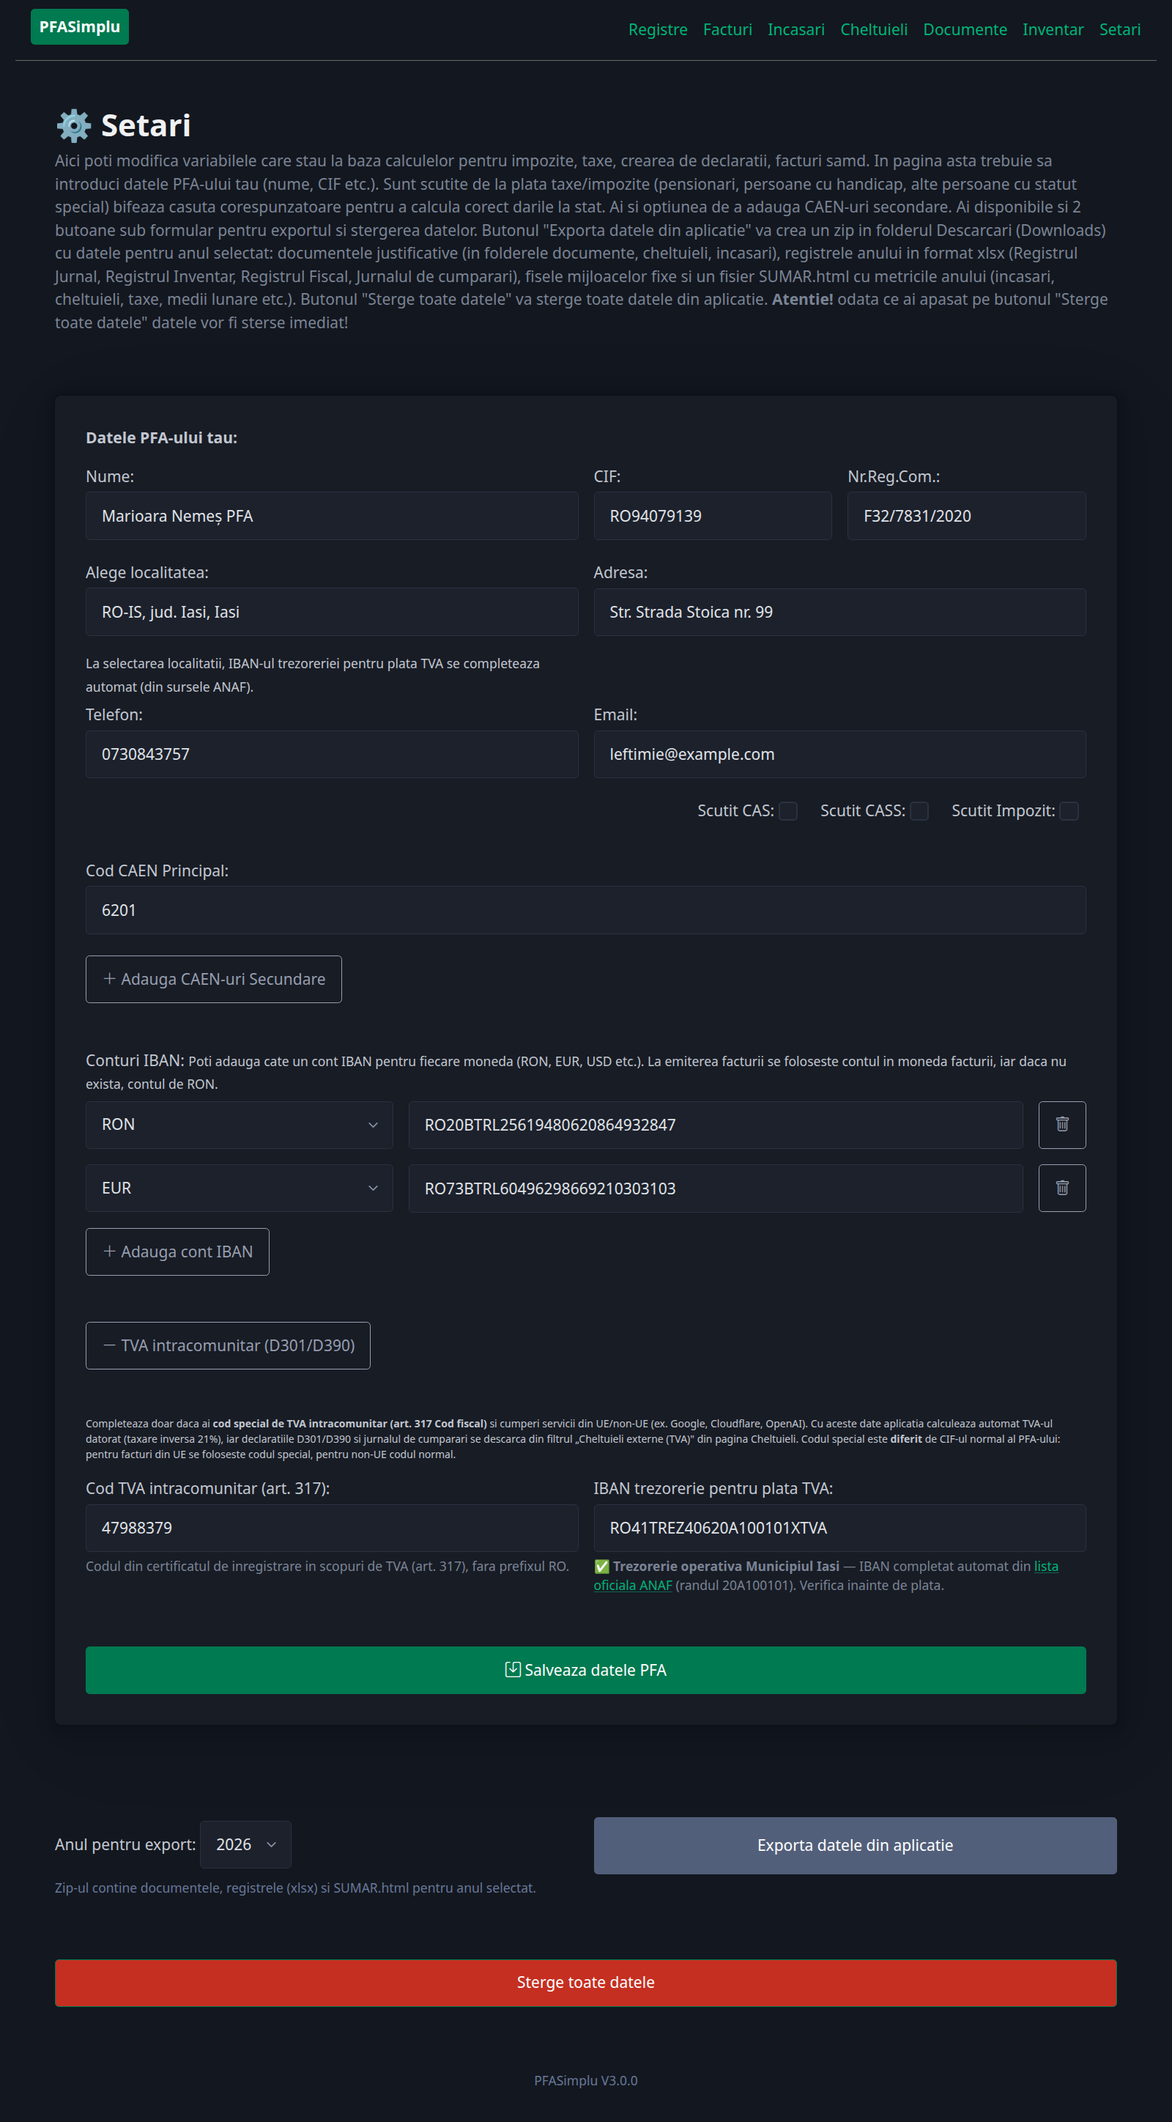
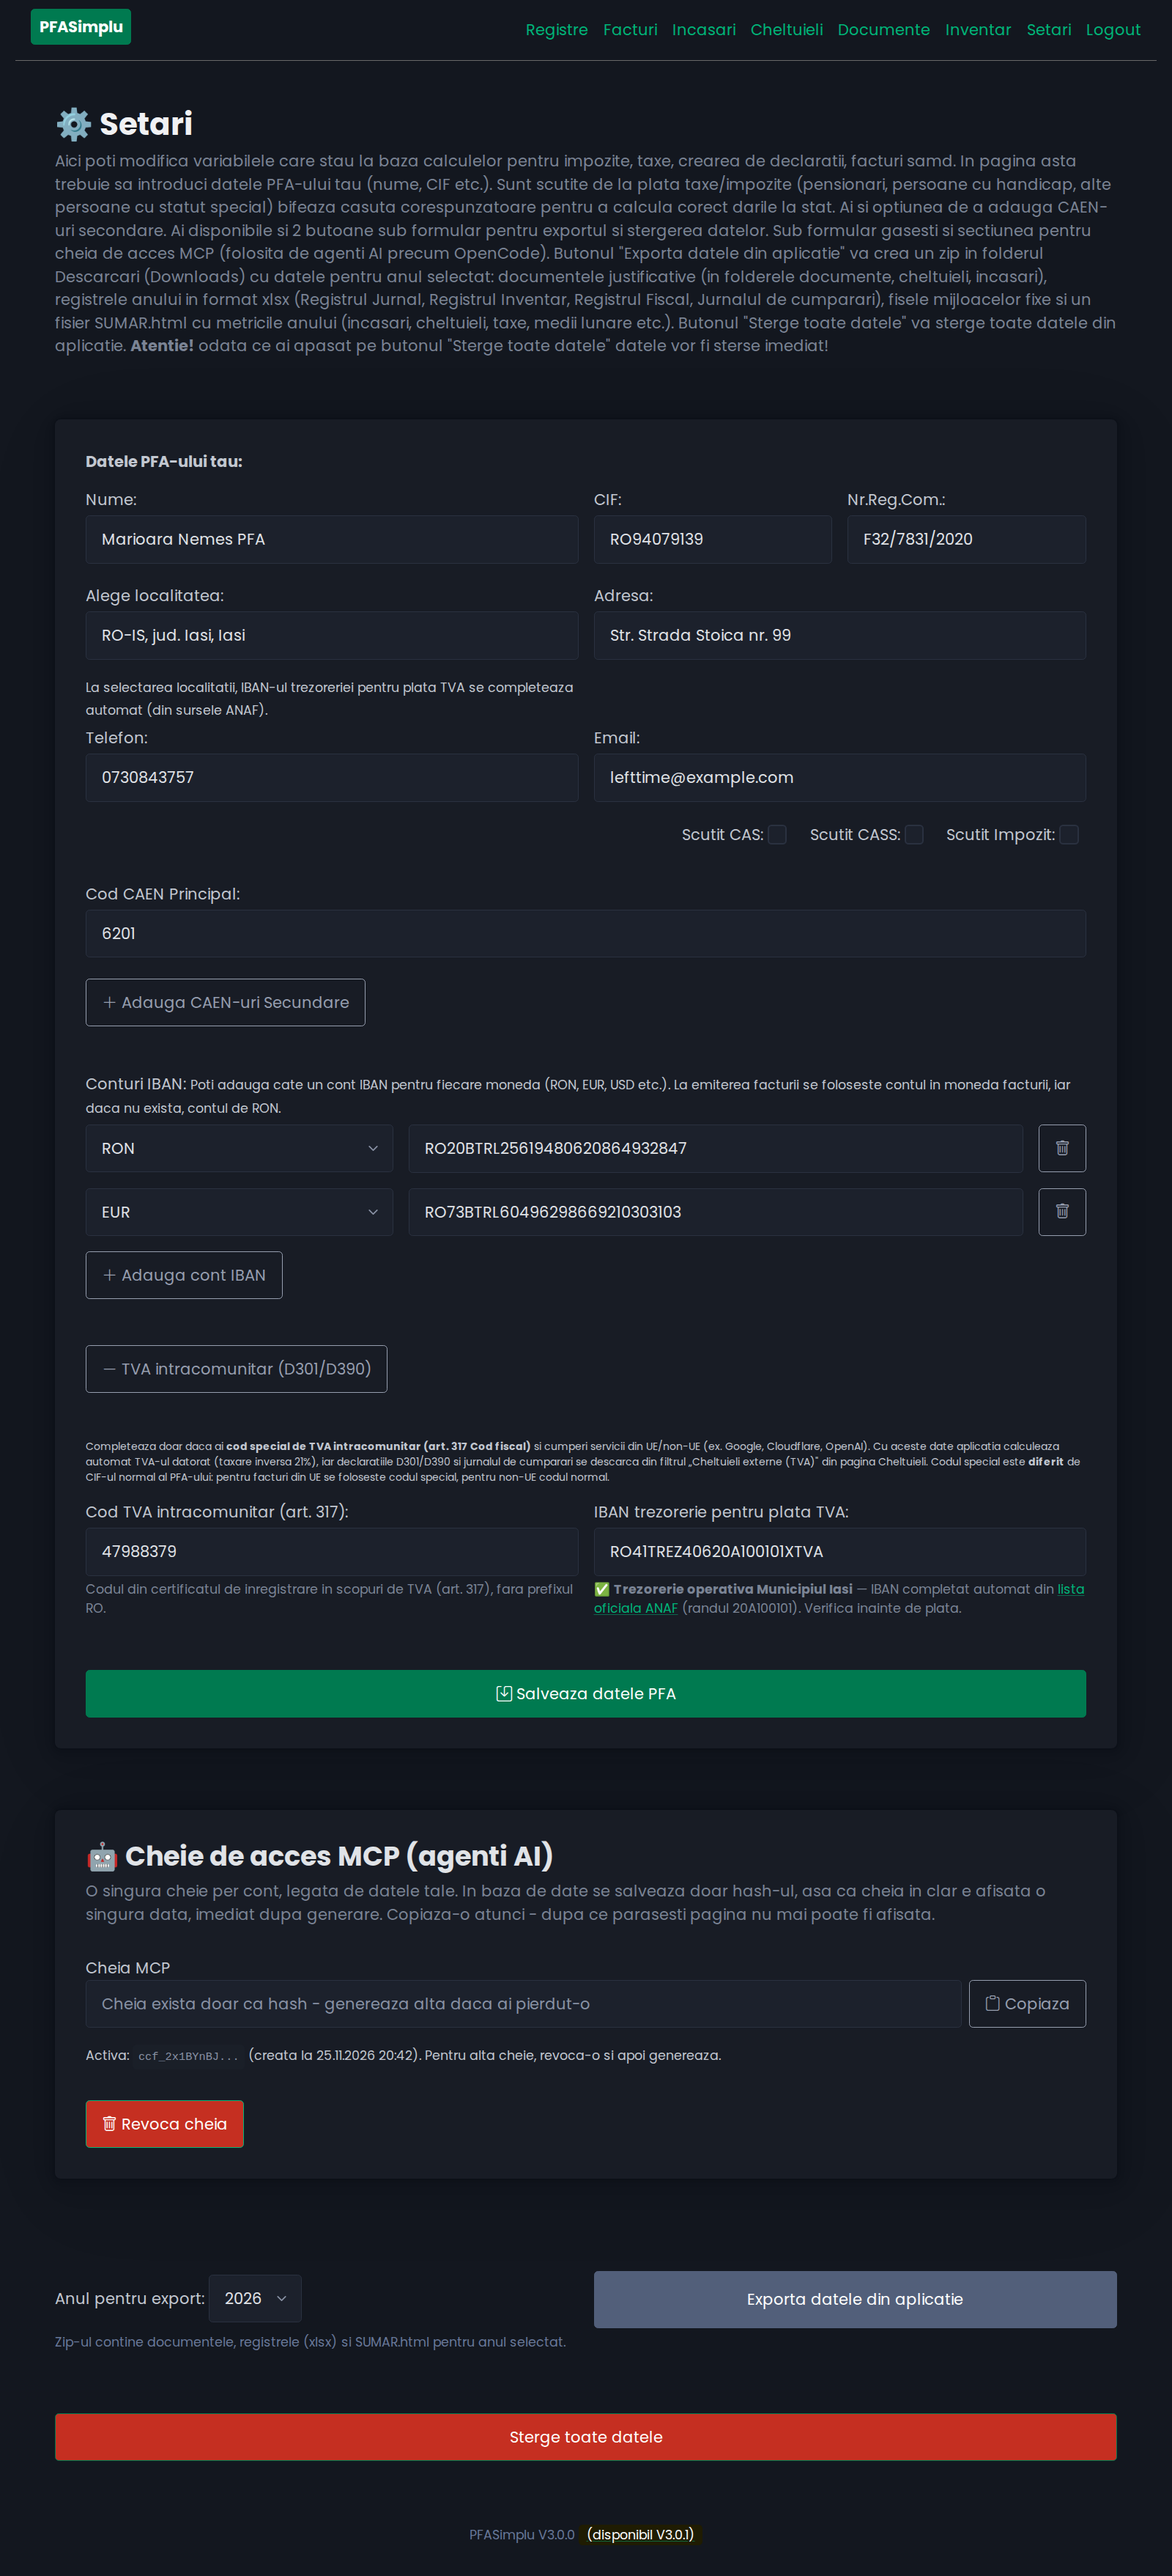
update readme settings

diff --git a/README.md b/README.md
@@ -175,7 +175,7 @@ aceeasi baza de date si aceleasi fisiere ca aplicatia web.
 Intra in `Setari` si foloseste formularul mic **„Cheie de acces MCP”** de sub
 formularul principal:
 
-- apasa **Genereaza cheie MCP** (optional cu un nume, ex. „OpenCode laptop”);
+- apasa **Genereaza cheia** in sectiunea „Cheie de acces MCP (agenti AI)” de sub formularul principal;
 - **copiaza cheia imediat** - e afisata o singura data;
 - in baza de date se salveaza doar un hash (salt + SHA-256), niciodata cheia
   in clar; la fiecare request MCP hash-ul primit e comparat cu cel salvat;
@@ -183,7 +183,7 @@ formularul principal:
   lui, iar agentul vede si modifica doar datele acelui cont (inclusiv fisierele
   lui); o cheie fara cont e refuzata;
 - generarea unei chei noi **revoca automat** doar cheia contului curent, iar
-  butonul **Revoca** o sterge definitiv - efectul e imediat, fara restart;
+  butonul **Revoca cheia** o sterge definitiv - efectul e imediat, fara restart;
 - pastreaz-o secret si nu o pune in git / `.env`.
 
 ### 2. Varianta locala, prin HTTP
@@ -296,7 +296,17 @@ Daca ai **cod special de TVA intracomunitar (art. 317 Cod fiscal)** si cumperi s
 - **Cod TVA intracomunitar** - codul special din certificatul de inregistrare in scopuri de TVA, fara prefixul RO. Este diferit de CIF-ul normal al PFA-ului: pentru facturi din UE se foloseste codul special, pentru non-UE codul normal (aplicatia alege automat codul corect);
 - **IBAN trezorerie pentru plata TVA** - se completeaza **automat cand selectezi localitatea** (campul `Alege localitatea`): aplicatia are tabelul IBAN-urilor extras din [sursele oficiale ANAF](https://www.anaf.ro/anaf/internet/ANAF/asistenta_contribuabili/plata_oblig_fiscale/coduri_iban) (202 trezorerii operative, inclusiv sectoarele Bucurestiului) si stie contul `20A100101 - TVA incasata pentru operatiuni interne` pentru localitatea ta. Linkul PDF-ului ANAF ramane afisat ca sa poti verifica. Daca tabelul `src/static/iban_trezorerie.json` lipseste, aplicatia il descarca automat de pe ANAF la prima salvare a Setarilor (necesita conexiune la internet; dureaza cateva minute). Daca localitatea nu are trezorerie operativa proprie (sate/comune), cauta IBAN-ul in lista ANAF pentru judetul tau si completeaza-l manual. TVA-ul din D301 NU se plateste in contul unic.
 
-![setari](readmepics/setari.png)
+**Cheie de acces MCP (agenti AI):** sub formularul principal gasesti sectiunea
+„Cheie de acces MCP (agenti AI)”. Apasa **Genereaza cheia** (o cheie per cont) si
+copiaza-o imediat: e afisata in clar o singura data, iar in baza de date se
+salveaza doar un hash (salt + SHA-256). Cheia e legata de contul care a generat-o,
+deci agentul AI vede si modifica doar datele acelui cont. Generarea unei chei noi
+o revoca pe cea veche, iar butonul **Revoca cheia** o sterge definitiv, cu efect
+imediat. Cu aceasta cheie conectezi OpenCode sau alt agent AI conform sectiunii
+[Utilizare din agenti AI (MCP / OpenCode)](#utilizare-din-agenti-ai-mcp--opencode);
+nu o pune in git sau in `.env`.
+
+![setari - datele PFA si cheia de acces MCP](readmepics/setari.png)
 
 
 
